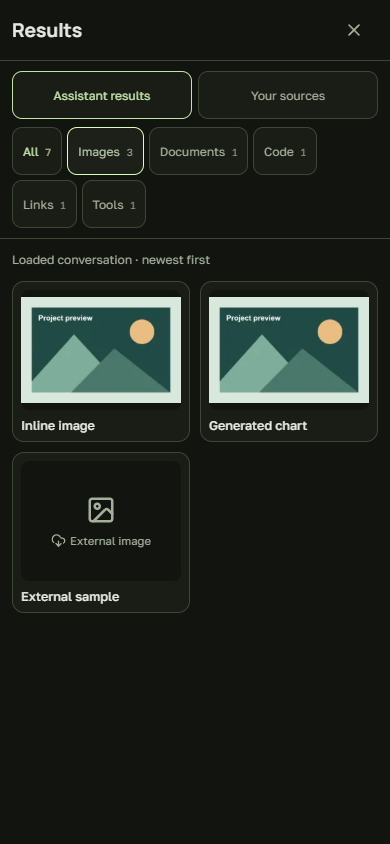
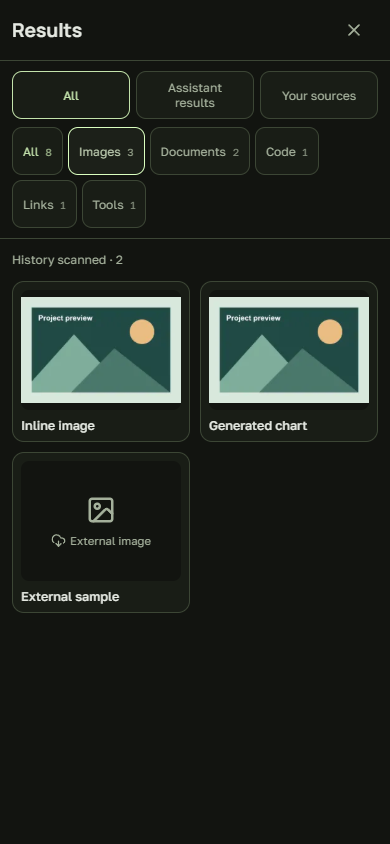
Preserve chat reading positions and index results across full history

diff --git a/src/App.tsx b/src/App.tsx
@@ -1,3 +1,4 @@
+import {positionKey,readPosition,savePosition,flushPositions,clearPositions,type ChatPosition} from './chat-position';
 import {UsageIndicator} from './UsageIndicator';
 import './composer-controls.css';
 import {shareMessages,shareSnapshot} from './chat-snapshot';
@@ -145,6 +146,7 @@ function WorkspaceApp({onDisconnect}: {onDisconnect():void}) {
   },[activityTarget,provider,busy,uploading,connection]);
   const [hasMore, setHasMore] = useStateForWorkspace<number | null>(null);
   const [loadingOlder,setLoadingOlder]=useStateForWorkspace(false);
+  const pendingPosition=useRefForWorkspace<ChatPosition|null>(null);
   const paging=useRefForWorkspace<symbol|null>(null);
   const scrollAnchor=useRefForWorkspace<{height:number;top:number;epoch:number;prepend:boolean;messageId?:string;offset?:number}|null>(null);
   useEffect(()=>saveSelectedWorkspace(provider),[provider]);
@@ -366,7 +368,11 @@ function WorkspaceApp({onDisconnect}: {onDisconnect():void}) {
     }
     const stop=startVisiblePoll(syncCompleted,3000);return () => {cancelled=true;stop();};
   },[connection,provider,job?.id,job?.status,demo,busy,loading,loadingOlder,fromStart,tab]);
-  useEffect(()=>{if(scroll.current)scroll.current.scrollTop=lastScrollTop.current;},[provider,tab]);
+  useLayoutEffect(()=>{if(tab==='chats'&&scroll.current&&!loading){scroll.current.scrollTop=lastScrollTop.current;setShowScrollActions(fromStart||scroll.current.scrollHeight-scroll.current.scrollTop-scroll.current.clientHeight>=80);}},[provider,tab,mobileChat]);
+  useLayoutEffect(()=>{const position=pendingPosition.current,el=scroll.current;if(!position||!el||loading||tab!=='chats')return;pendingPosition.current=null;const message=position.messageId?[...el.querySelectorAll<HTMLElement>('[data-message-id]')].find(node=>node.dataset.messageId===position.messageId):null;el.scrollTop=position.bottom?el.scrollHeight:message&&position.offset!==undefined?el.scrollTop+message.getBoundingClientRect().top-el.getBoundingClientRect().top-position.offset:position.top;lastScrollTop.current=el.scrollTop;nearBottom.current=position.bottom;setShowScrollActions(!position.bottom||fromStart);},[loading,history,provider,tab]);
+  function rememberPosition(){const el=scroll.current;if(!el||loading||!selected||!el.getClientRects().length)return;const top=el.getBoundingClientRect().top,message=[...el.querySelectorAll<HTMLElement>('[data-message-id]')].find(node=>node.getBoundingClientRect().bottom>top);savePosition(positionKey(cacheScope,provider,selected.sessionId),{top:el.scrollTop,window:historyWindow.current,fromStart,bottom:nearBottom.current,messageId:message?.dataset.messageId,offset:message?message.getBoundingClientRect().top-top:undefined});}
+  const persistPosition=useRef(()=>{});persistPosition.current=rememberPosition;
+  useEffect(()=>{const save=()=>{persistPosition.current();flushPositions();};window.addEventListener('pagehide',save);document.addEventListener('visibilitychange',save);return()=>{save();window.removeEventListener('pagehide',save);document.removeEventListener('visibilitychange',save);};},[]);
   useLayoutEffect(()=>{
     const anchor=scrollAnchor.current,el=scroll.current;
     if(!anchor||!el)return;
@@ -411,6 +417,7 @@ function WorkspaceApp({onDisconnect}: {onDisconnect():void}) {
   }
   async function jumpHistory(beginning: boolean) {
     if (loading || busy) return;
+    pendingPosition.current=null;
     const epoch = ++navigation.current;
     paging.current=null;setLoadingOlder(false);scrollAnchor.current=null;
     nearBottom.current = false;setLoading(true);
@@ -429,11 +436,12 @@ function WorkspaceApp({onDisconnect}: {onDisconnect():void}) {
   }
   async function openSession(s: Session, activeJob?: Pick<JobView,'id'|'sessionId'>) {
     if (busy || uploading) return;
-    rememberDraft();setReadingMode(false);paging.current=null;setLoadingOlder(false);scrollAnchor.current=null;
+    rememberPosition();rememberDraft();setReadingMode(false);paging.current=null;setLoadingOlder(false);scrollAnchor.current=null;
     const epoch = ++navigation.current;setSelected(s);projectChosen.current=true;setCwd(s.cwd || health!.roots[0]);setMobileChat(true);setTab('chats');
-    historyWindow.current = 100;setHistoryError('');setFromStart(false);setShowScrollActions(false);lastScrollTop.current = 0;
+    const savedPosition=readPosition(positionKey(cacheScope,provider,s.sessionId));pendingPosition.current=savedPosition;
+    historyWindow.current = savedPosition?.window||100;setHistoryError('');setFromStart(savedPosition?.fromStart||false);setShowScrollActions(savedPosition?!savedPosition.bottom:false);lastScrollTop.current = savedPosition?.top||0;
     const cached=cacheScope&&!demo?readChatCache<ChatMessage[]>(cacheScope,provider,'chat:'+s.sessionId):null;
-    setHistory(Array.isArray(cached)?cached:[]);setJob(null);restoreDraft(activeJob?.sessionId||s.sessionId);setError('');setTakeover(false);setHasMore(null);nearBottom.current = true;
+    setHistory(Array.isArray(cached)?cached:[]);setJob(null);restoreDraft(activeJob?.sessionId||s.sessionId);setError('');setTakeover(false);setHasMore(null);nearBottom.current = savedPosition?.bottom??true;
     if (demo) {setHistory(demoMessages);return;}
     setLoading(true);
     try {
@@ -445,14 +453,15 @@ function WorkspaceApp({onDisconnect}: {onDisconnect():void}) {
       setJob(full);setTakeover(Boolean(full));
       const resolved=full?.sessionId?{...s,sessionId:full.sessionId,cwd:full.cwd}:s;
       if(resolved.sessionId!==s.sessionId)setSelected(resolved);
-      if (!resolved.sessionId.startsWith('pending-')) await loadHistory(resolved, full, epoch, false, false);
+      if (!resolved.sessionId.startsWith('pending-')) await loadHistory(resolved, full, epoch, false, savedPosition?.fromStart||false);
     } catch (e) {if (epoch === navigation.current) setError((e as Error).message);} finally {if (epoch === navigation.current) setLoading(false);}
   }
   function newChat(project = cwd) {
     if (busy || uploading) return;
+    rememberPosition();
     rememberDraft();setReadingMode(false);paging.current=null;setLoadingOlder(false);scrollAnchor.current=null;navigation.current++;setSelected(null);setHistory([]);setJob(null);restoreDraft(`new:${project}`);setError('');setHasMore(null);
     historyWindow.current = 100;setHistoryError('');setFromStart(false);setShowScrollActions(false);lastScrollTop.current = 0;
-    projectChosen.current=true;setCwd(project);setMobileChat(true);setTab('chats');setTakeover(true);setLoading(false);
+    pendingPosition.current=null;projectChosen.current=true;setCwd(project);setMobileChat(true);setTab('chats');setTakeover(true);setLoading(false);
   }
   async function send(confirmed = takeover) {
     if (sending.current || loading || uploading || demo || !canRun || selected?.readOnly || !draft.trim() && !attachments.length) return;
@@ -499,7 +508,7 @@ function WorkspaceApp({onDisconnect}: {onDisconnect():void}) {
     } catch (e) {setError((e as Error).message);} finally {setUploading(false);if (fileInput.current) fileInput.current.value = '';}
   }
   function startDemo() {setDemo(true);setSessions(demoSessions);setHealth({ name: t("Рабочий компьютер"), roots: ['D:\\Projects\\my-app'], version: '0.10.0', protocol: 1 });setCwd('D:\\Projects\\my-app');setSelected(demoSessions[0]);setHistory(demoMessages);}
-  async function disconnect() {try {await saveConnection(null);clearChatCache();onDisconnect();}catch(e){setError((e as Error).message);}}
+  async function disconnect() {try {await saveConnection(null);clearChatCache();persistPosition.current=()=>{};clearPositions();onDisconnect();}catch(e){setError((e as Error).message);}}
   if (!health) return <Connect initial={saved} onConnect={connect} onDemo={startDemo} busy={busy} error={error} />;
   const visible = sessions.filter((s) => `${s.customTitle || ""} ${s.summary} ${s.cwd}`.toLowerCase().includes(search.toLowerCase()));
   const workspacePicker = (location:'sidebar'|'header'|'settings') => <label className={`workspace-picker workspace-picker-${location}`}>{location==='settings'&&<span>{t("Рабочее пространство")}</span>}<select aria-label={t("Рабочее пространство")} value={provider} disabled={demo} onChange={event=>setProvider(event.target.value as WorkspaceProvider)}><option value="claude">Claude</option><option value="codex">Codex</option><option value="copilot">GitHub Copilot</option></select></label>;
@@ -524,13 +533,13 @@ function WorkspaceApp({onDisconnect}: {onDisconnect():void}) {
     <main className="workspace">
       {reviewOpen && connection && reviewCwd && <Review key={reviewContext} connection={connection} cwd={reviewCwd} initialMode={availableReview?.mode} onClose={()=>setReviewOpen(false)}/>}
       {agentPanel && connection && parentChatId && <Subagents key={`${provider}-${parentChatId}`} connection={connection} provider={provider} parentId={parentChatId} initialAgent={agentPanel.initial} initialAgentId={agentPanel.initial?.id} onClose={()=>setAgentPanel(null)}/>}
-      {outputsOpen && connection && <ChatOutputs key={`${provider}:${parentChatId||cwd}`} connection={connection} cwd={cwd} messages={outputMessages} onClose={()=>setOutputsOpen(false)} hasMore={hasMore!==null&&historyWindow.current<5000} loadingMore={loadingOlder} onLoadMore={()=>void extendHistory()} />}
+      {outputsOpen && connection && <ChatOutputs provider={provider} sessionId={parentChatId||undefined} key={`${provider}:${parentChatId||cwd}`} connection={connection} cwd={cwd} messages={outputMessages} onClose={()=>setOutputsOpen(false)} hasMore={hasMore!==null&&historyWindow.current<5000} loadingMore={loadingOlder} onLoadMore={()=>void extendHistory()} />}
       <header className="chat-header" data-section={tab}>
         {(tab==='chats'||tab==='terminal')&&<button className="icon-button mobile-back" aria-label={t("К списку чатов")} onClick={() => setMobileChat(false)}><ArrowLeft size={21} /></button>}
         <div className="header-title">{(tab==='chats'||tab==='terminal') && <label className="project-picker"><Folder size={14}/><select aria-label={t("Папка проекта")} title={cwd} value={cwd} disabled={busy||uploading} onChange={event=>newChat(event.target.value)}>{!projectRoots.includes(cwd)&&<option value={cwd}>{basename(cwd)}</option>}{projectRoots.map(root=><option key={root} value={root}>{basename(root)}</option>)}</select></label>}<strong>{tab==='jobs'?t("Задачи"):tab==='settings'?t("Настройки"):tab==='files'?t("Проект"):tab==='terminal'?t("Терминал"):selected?.customTitle||selected?.summary||t("Новый разговор")}</strong></div>
         {tab==='jobs'&&<><span className="tasks-header-role">{t(jiraRoleLabel(jiraRole))}</span><TaskNotificationBell count={taskFeed.inbox.unread} disabled={!connection||demo} onClick={()=>setTaskInboxOpen(true)}/></>}
         {(tab==='chats'||tab==='terminal')&&workspacePicker('header')}
-        {tab==='chats' && <><span className="branch"><GitBranch size={13} />{selected?.gitBranch||'local'}</span>{availableReview&&<button className="secondary review-button" aria-label="Review" disabled={!connection||demo||selected?.readOnly} onClick={()=>setReviewOpen(true)}>Review</button>}{hasOutputs&&<button className="icon-button outputs-entry" disabled={!connection||demo||loading} aria-label={t("Результаты")} title={t("Результаты")} onClick={()=>setOutputsOpen(true)}><PanelsTopLeft size={20}/></button>}{(outputMessages.length>0||Boolean(job?.partial))&&<button className="icon-button reading-entry" disabled={loading||!history.length&&!job} aria-label={t("Режим чтения")} title={t("Режим чтения")} aria-pressed={readingMode} onClick={()=>toggleReadingMode(true)}><Eye size={20}/></button>}</>}
+        {tab==='chats' && <><span className="branch"><GitBranch size={13} />{selected?.gitBranch||'local'}</span>{availableReview&&<button className="secondary review-button" aria-label="Review" disabled={!connection||demo||selected?.readOnly} onClick={()=>setReviewOpen(true)}>Review</button>}{(hasOutputs||Boolean(selected))&&<button className="icon-button outputs-entry" disabled={!connection||demo||loading} aria-label={t("Результаты")} title={t("Результаты")} onClick={()=>setOutputsOpen(true)}><PanelsTopLeft size={20}/></button>}{(outputMessages.length>0||Boolean(job?.partial))&&<button className="icon-button reading-entry" disabled={loading||!history.length&&!job} aria-label={t("Режим чтения")} title={t("Режим чтения")} aria-pressed={readingMode} onClick={()=>toggleReadingMode(true)}><Eye size={20}/></button>}</>}
       </header>
       {demo && <div className="demo-banner">{t("Демо · пример интерфейса, без подключения к Claude")}<button onClick={() => void disconnect()}>{t("Подключить ПК →")}</button></div>}
       {historyError && tab==='chats' && <div className="network-banner" role="status">{t("История не обновилась: ")}{t(historyError)}</div>}
@@ -538,11 +547,12 @@ function WorkspaceApp({onDisconnect}: {onDisconnect():void}) {
       {!canRun && !demo && <div className="network-banner" role="status">{providerInfo?.error ? t(providerInfo.error) : providerInfo ? t("{0} недоступен. Установите приложение и войдите в аккаунт на ПК.",engineName) : t("Обновите сервер на ПК, чтобы включить рабочее пространство Codex.")}</div>}
       <Updates connection={connection} expanded={tab === 'settings'&&settingsPage === 'updates'} />
       {tab === 'jobs' ? <JiraJobs notificationTarget={taskTarget} onNotificationOpened={()=>setTaskTarget(null)} key={provider} provider={provider} codexAccess={codexAccess} connection={connection} roots={projectRoots} jobs={jobs} budget={budget} onSettings={() => {setSettingsPage('jira');setTab('settings');setMobileChat(true);}} onOpenLinked={link => {if(link.sessionId)void openSession({sessionId:link.sessionId,cwd:link.cwd,provider:link.provider,summary:t("Задача {0}",engineName),lastModified:Date.now()});}} onOpen={(j) => {void openSession({ sessionId: j.sessionId || `pending-${j.id}`, summary: j.jira ? `${j.jira.key}: ${j.jira.summary}` : t("Задача {0}",engineName), cwd: j.cwd, lastModified: j.startedAt }, j);}} /> : tab === 'terminal' ? provider !== 'claude' ? <div className="center-message">{t("Терминал доступен в рабочем пространстве Claude. С Codex можно работать в чате.")}</div> : connection && !demo && !selected?.readOnly ? <LiveTerminal connection={connection} cwd={cwd} sessionId={selected?.sessionId} /> : <div className="center-message">{t("Живой терминал доступен после подключения к ПК.")}</div> : tab === 'files' ? connection && !demo && !selected?.readOnly ? <ProjectDocs key={`${provider}:${cwd}`} provider={provider} connection={connection} root={cwd} roots={projectRoots} onSelectProject={root=>{newChat(root);setTab('files');setMobileChat(true);}} onProject={newChat} /> : <div className="center-message">{t("Файлы доступны после подключения к ПК.")}</div> : tab === 'settings' ? <SettingsPanel workspaceSelector={workspacePicker('settings')} page={settingsPage} onPage={setSettingsPage} provider={provider} connection={connection} computerName={health.name} networkError={networkError} roots={projectRoots} cwd={cwd} onProject={root=>{newChat(root);setTab('settings');setSettingsPage('workspace');}} appearance={appearanceSettings} codexAccess={codexAccess} onCodexAccess={setCodexAccess} budget={budget} onBudget={setBudget} onDisconnect={()=>void disconnect()}/> : <>
-        <div className="conversation" ref={scroll} style={{overflowAnchor:'none'}} onScroll={() => {const el = scroll.current!,previous=lastScrollTop.current;nearBottom.current = el.scrollHeight - el.scrollTop - el.clientHeight < 80;if (nearBottom.current && !fromStart) setShowScrollActions(false);else if (el.scrollTop < previous - 2) setShowScrollActions(true);lastScrollTop.current = el.scrollTop;acknowledgeVisibleActivity();if(fromStart?el.scrollTop>previous&&nearBottom.current:el.scrollTop<previous&&el.scrollTop<=40)void extendHistory();}}>
+        <div className="conversation" ref={scroll} style={{overflowAnchor:'none'}} onScroll={() => {const el = scroll.current!;if(!el.getClientRects().length||tab!=='chats')return;const previous=lastScrollTop.current;nearBottom.current = el.scrollHeight - el.scrollTop - el.clientHeight < 80;setShowScrollActions(fromStart||!nearBottom.current);lastScrollTop.current = el.scrollTop;rememberPosition();acknowledgeVisibleActivity();if(fromStart?el.scrollTop>previous&&nearBottom.current:el.scrollTop<previous&&el.scrollTop<=40)void extendHistory();}}>
           <div className="conversation-inner">{selected && !demo && <p className="muted history-meta" role="status">{selected.source === 'desktop' ? `${engineName} Desktop · ` : ''}{job ? t("Продолжение с телефона") : t("История обновляется каждые 3 секунды")}</p>}{selected?.readOnly && <p className="info-card">{t("Только просмотр. Чтобы продолжить чат и работать с файлами, запустите сервер с папкой этого проекта: ")}{cwd}</p>}<div className="conversation-date"><span />{demo ? t("ПРИМЕР РАЗГОВОРА") : t("РАБОЧЕЕ ПРОСТРАНСТВО")}<span /></div>
             {loading && <div className="center-message">{t("Загружаем историю с ПК…")}</div>}
             {!loading && !history.length && !job && !selected && <div className="welcome"><div className="welcome-symbol">✳</div><h1>{t("Что создадим сегодня?")}</h1><p>{t("Файлы, инструменты и контекст вашего ПК.")}<br />{t("Теперь под рукой.")}</p><div className="suggestions">{[t("Изучи структуру проекта"), t("Помоги найти и исправить ошибку"), t("Составь план новой функции")].map((t) => <button key={t} onClick={() => setDraft(t)}>{t}<ArrowUp size={15} /></button>)}</div></div>}
             {!loading && selected && !history.length && !job && <p className="muted">{t("В локальной истории пока нет сообщений. Проверьте, что этот чат открыт в {0} на ПК.",engineName)}</p>}
+            {selected&&!loading&&<p className="history-page-status muted" role="status" aria-live="polite">{loadingOlder?(locale().startsWith('ru')?'Загружаем сообщения…':'Loading messages…'):historyError?(locale().startsWith('ru')?'Не удалось обновить историю':'History could not be refreshed'):fromStart||hasMore===null?(locale().startsWith('ru')?'Начало чата':'Beginning of chat'):(locale().startsWith('ru')?'Выше есть ещё сообщения · прокрутите вверх':'More messages above · scroll up')}{historyError&&hasMore!==null&&<button className="text-button" onClick={()=>void extendHistory()}>{locale().startsWith('ru')?'Повторить загрузку':'Retry loading'}</button>}</p>}
             <MessageList key={`${provider}-history`} provider={provider} messages={history} toolResults={toolResults} runningMessages={runningMessages} agents={agentMap} onSubagent={connection&&parentChatId ? openSubagent : undefined}/>
             {hasMore !== null && historyWindow.current >= 5000 && <p className="muted" role="status">{t("Достигнут предел окна: 5000 сообщений")}</p>}
             {job&&job.errorCode!=='codex_thread_busy' && <MessageList key={`${provider}-${job.id}`} provider={provider} messages={job.messages} toolResults={toolResults} runningMessages={runningMessages} agents={agentMap} onSubagent={connection&&parentChatId ? openSubagent : undefined}/>}

diff --git a/src/ChatOutputs.tsx b/src/ChatOutputs.tsx
@@ -1,16 +1,17 @@
+import {useChatOutputIndex} from './useChatOutputIndex';
 import {useEffect,useMemo,useRef,useState} from 'react';
 import {ArrowLeft,ChevronRight,Code2,ExternalLink,FileText,Image,Link,RefreshCw,Wrench,X} from 'lucide-react';
 import {request,type Connection} from './api';
 import {useLanguage} from './i18n';
 import {useModal} from './navigation';
 import {Markdown,RichBlock,safeWebUrl,imageSource} from './RichBlocks';
-import {extractChatOutputs,OUTPUT_LIMIT,type ChatOutput,type OutputCategory,type OutputSource} from './chat-outputs';
+import {type ChatOutput,type OutputCategory,type OutputSource} from './chat-outputs';
 import type {ChatMessage} from '../server/types';
 import './chat-outputs.css';
 import {OutputImageCard,OutputImageViewer} from './OutputImage';
 import {thumbnailQueue} from './image-thumbnails';
 
-type Props={connection:Connection;cwd:string;messages:ChatMessage[];onClose:()=>void;onLoadMore?:()=>void;hasMore?:boolean;loadingMore?:boolean};
+type Props={provider?:string;sessionId?:string;connection:Connection;cwd:string;messages:ChatMessage[];onClose:()=>void;onLoadMore?:()=>void;hasMore?:boolean;loadingMore?:boolean};
 type Artifact={name:string;mimeType:string;data?:string;text?:string};
 const words={
   title:['Results','Результаты'],close:['Back to chat','Вернуться в чат'],back:['All results','Все результаты'],
@@ -30,31 +31,32 @@ const words={
 const icons={images:Image,documents:FileText,code:Code2,links:Link,tools:Wrench};
 const categories=['all','images','documents','code','links','tools'] as const;
 export function ChatOutputs(props:Props){return <OutputPanel key={`${props.connection.url}|${props.connection.token}|${props.cwd}`} {...props}/>;}
-function OutputPanel({connection,cwd,messages,onClose,onLoadMore,hasMore,loadingMore}:Props){
+function OutputPanel({connection,cwd,messages,onClose,onLoadMore,hasMore,loadingMore,provider='claude',sessionId}:Props){
   const language=useLanguage(),label=(key:keyof typeof words)=>words[key][language==='ru'?1:0];
-  const outputs=useMemo(()=>extractChatOutputs(messages),[messages]);
-  const [source,setSource]=useState<OutputSource>('results'),[filter,setFilter]=useState<'all'|OutputCategory>('all'),[selected,setSelected]=useState<ChatOutput|null>(null);
+  const index=useChatOutputIndex(connection,provider,sessionId,messages),outputs=index.outputs;
+  const [visibleCount,setVisibleCount]=useState(100);
+  const [source,setSource]=useState<OutputSource|'all'>('all'),[filter,setFilter]=useState<'all'|OutputCategory>('all'),[selected,setSelected]=useState<ChatOutput|null>(null);
   const [selectedImage,setSelectedImage]=useState<ChatOutput|null>(null),thumbnails=useMemo(()=>thumbnailQueue(),[connection,cwd]);
   const panel=useRef<HTMLElement|null>(null),scroll=useRef<HTMLDivElement|null>(null),backButton=useRef<HTMLButtonElement|null>(null),savedScroll=useRef(0),first=useRef(true);
   useModal(panel,true,()=>selected?setSelected(null):onClose());
   useEffect(()=>{if(scroll.current)scroll.current.scrollTop=selected?0:savedScroll.current;if(!first.current)backButton.current?.focus({preventScroll:true});first.current=false;},[selected]);
-  const scoped=outputs.filter(item=>item.source===source),visible=scoped.filter(item=>filter==='all'||item.category===filter);
+  const scoped=outputs.filter(item=>source==='all'||item.source===source),visible=scoped.filter(item=>filter==='all'||item.category===filter);
   const title=(item:ChatOutput)=>item.title==='Image'?label('image'):item.title==='Document'?label('document'):item.title==='Code'?label('code'):item.title==='Tool result'?label('toolResult'):item.title==='Tool error'?label('toolError'):item.title;
   const choose=(item:ChatOutput)=>{if(item.category==='images'){setSelectedImage(item);return;}savedScroll.current=scroll.current?.scrollTop||0;setSelected(item);};
-  const changeSource=(value:OutputSource)=>{setSource(value);setFilter('all');savedScroll.current=0;if(scroll.current)scroll.current.scrollTop=0;};
+  const changeSource=(value:OutputSource|'all')=>{setSource(value);setFilter('all');setVisibleCount(100);savedScroll.current=0;if(scroll.current)scroll.current.scrollTop=0;};
   return <aside ref={panel} className="chat-outputs-panel" role="dialog" aria-modal="true" aria-label={label('title')}>
     <header className="chat-outputs-header"><h2>{label('title')}</h2><button className="icon-button" aria-label={label('close')} onClick={onClose}><X size={20}/></button></header>
     {selected?<div className="chat-outputs-back"><button ref={backButton} onClick={()=>setSelected(null)}><ArrowLeft size={18}/>{label('back')}</button></div>:<div className="chat-outputs-filters">
-      <div className="chat-output-scope" role="group" aria-label={label('scope')}>{(['results','sources'] as const).map(value=><button key={value} aria-pressed={source===value} onClick={()=>changeSource(value)}>{label(value)}</button>)}</div>
+      <div className="chat-output-scope" role="group" aria-label={label('scope')}>{(['all','results','sources'] as const).map(value=><button key={value} aria-pressed={source===value} onClick={()=>changeSource(value)}>{label(value)}</button>)}</div>
       <div className="chat-output-categories" role="group" aria-label={label('categories')}>{categories.map(value=><button key={value} aria-pressed={filter===value} onClick={()=>{setFilter(value);if(scroll.current)scroll.current.scrollTop=0;}}>{label(value)} <span>{value==='all'?scoped.length:scoped.filter(item=>item.category===value).length}</span></button>)}</div>
     </div>}
-    <div ref={scroll} className="chat-outputs-scroll">
+    <div ref={scroll} className="chat-outputs-scroll" onScroll={event=>{const el=event.currentTarget;if(el.scrollHeight-el.scrollTop-el.clientHeight<400)setVisibleCount(value=>value+100);}}>
       {selected?<><h3 className="chat-output-title">{title(selected)}</h3><OutputPreview key={selected.id} output={selected} connection={connection} cwd={cwd} label={label}/></>:<>
-        <p className="chat-output-note">{label('loaded')}</p>
-        {outputs.length>=OUTPUT_LIMIT&&<p className="chat-output-note">{label('limit')}</p>}
-        {!visible.length&&<p className="chat-output-empty">{label('empty')}</p>}
-        <ul className={'chat-output-list'+(filter==='images'?' chat-output-gallery':'')}>{visible.map(item=>{const Icon=icons[item.category];return <li key={item.id} className={item.category==='images'?'chat-output-image-item':''}>{item.category==='images'?<OutputImageCard output={item} title={title(item)} connection={connection} cwd={cwd} queue={thumbnails} onOpen={()=>choose(item)}/>:<button onClick={()=>choose(item)} className="chat-output-row"><Icon size={20}/><span><strong>{title(item)}</strong><small>{item.path||item.href||label(item.category)}</small></span><ChevronRight size={18}/></button>}</li>;})}</ul>
-        {hasMore&&onLoadMore&&<button className="secondary chat-output-earlier" onClick={onLoadMore} disabled={loadingMore}>{loadingMore?label('loading'):label('earlier')}</button>}
+        <p className="chat-output-note" role="status">{sessionId?(index.error?(language==='ru'?'\u041f\u043e\u0438\u0441\u043a \u043f\u0440\u0435\u0440\u0432\u0430\u043d':'Search interrupted'):index.scanning?(language==='ru'?'Ищем файлы во всей истории':'Searching the full history'):(language==='ru'?'История проверена':'History scanned'))+' · '+index.count:label('loaded')}</p>
+        {index.error&&<p role="alert">{index.error}<button onClick={index.retry}>{language==='ru'?'Повторить':'Retry'}</button></p>}
+        {!visible.length&&<p className="chat-output-empty">{index.scanning?(language==='ru'?'Пока ничего не найдено. Поиск продолжается…':'Nothing found yet. Still searching…'):(language==='ru'?'Нет элементов этой категории.':'No items in this category.')}</p>}
+        <ul className={'chat-output-list'+(filter==='images'?' chat-output-gallery':'')}>{visible.slice(0,visibleCount).map(item=>{const Icon=icons[item.category];return <li key={item.id} className={item.category==='images'?'chat-output-image-item':''}>{item.category==='images'?<OutputImageCard output={item} title={title(item)} connection={connection} cwd={cwd} queue={thumbnails} onOpen={()=>choose(item)}/>:<button onClick={()=>choose(item)} className="chat-output-row"><Icon size={20}/><span><strong>{title(item)}</strong><small>{item.path||item.href||label(item.category)}</small></span><ChevronRight size={18}/></button>}</li>;})}</ul>
+        {!sessionId&&hasMore&&onLoadMore&&<button className="secondary chat-output-earlier" onClick={onLoadMore} disabled={loadingMore}>{loadingMore?label('loading'):label('earlier')}</button>}
       </>}
     </div>
     {selectedImage&&<OutputImageViewer output={selectedImage} title={title(selectedImage)} connection={connection} cwd={cwd} onClose={()=>setSelectedImage(null)}/>}

diff --git a/tests/chat-recovery.spec.ts b/tests/chat-recovery.spec.ts
@@ -92,10 +92,11 @@ test('scrolling to history edges loads automatically once and preserves the visi
   await scroller.evaluate(el=>{el.scrollTo({top:0,behavior:'instant'});el.dispatchEvent(new Event('scroll'));el.dispatchEvent(new Event('scroll'));});
   await expect.poll(()=>windows.filter(window=>window===200).length).toBe(1);
   const oldAnchor=page.locator('.message').filter({has:page.getByText('History message 101',{exact:true})});
+  await expect(page.getByText('Loading messages…',{exact:true})).toBeVisible();
   const oldTop=await oldAnchor.evaluate(el=>el.getBoundingClientRect().top);expansion.resolve();
   await expect(page.locator('.message')).toHaveCount(201);
   await expect.poll(()=>oldAnchor.evaluate(el=>el.getBoundingClientRect().top)).toBeCloseTo(oldTop,0);
-  expect(windows.filter(window=>window===200)).toHaveLength(1);
+  expect(windows.filter(window=>window===200)).toHaveLength(1);await expect(page.getByText('Beginning of chat',{exact:true})).toHaveCount(1);
   await page.getByRole('button',{name:'Go to beginning'}).click();await expect(page.locator('.message')).toHaveCount(100);
   await expect.poll(()=>scroller.evaluate(el=>el.scrollTop)).toBe(0);
   await scroller.evaluate(el=>{el.scrollTo({top:el.scrollHeight,behavior:'instant'});el.dispatchEvent(new Event('scroll'));});
@@ -142,4 +143,24 @@ test('cached list and transcript appear before delayed refresh after reload',asy
  await expect(page.getByText('History message 1',{exact:true})).toHaveCount(1);
  waiting.resolve();await expect(page.getByText('History message 2',{exact:true})).toHaveCount(1);
  await expect(page.getByText('History message 1',{exact:true})).toHaveCount(0);
+});
+
+test('chat position and jump controls survive downward scrolling, tab changes and reload',async({page})=>{
+ await page.setViewportSize({width:390,height:844});await host(page);
+ await page.route('**/api/sessions/saved-chat/messages?*',route=>route.fulfill({json:{messages:Array.from({length:100},(_,i)=>message(i+1)),previous:null,next:null}}));
+ await connect(page,'claude');const scroller=page.locator('.conversation');
+ await expect.poll(()=>scroller.evaluate(el=>el.scrollTop)).toBeGreaterThan(1000);
+ await scroller.evaluate(el=>{el.scrollTop=1800;el.dispatchEvent(new Event('scroll'));});
+ await scroller.evaluate(el=>{el.scrollTop=1900;el.dispatchEvent(new Event('scroll'));});
+ await expect(page.getByRole('button',{name:'Go to beginning'})).toBeVisible();
+ const before=await scroller.evaluate(el=>el.scrollTop);
+ await page.locator('.mobile-nav').getByRole('button',{name:'Settings'}).click();
+ await page.locator('.mobile-nav').getByRole('button',{name:'Chats'}).click();
+ await expect.poll(()=>scroller.evaluate(el=>el.scrollTop)).toBeCloseTo(before,0);
+ await page.getByRole('button',{name:'Back to chats',exact:true}).click();
+ await page.getByRole('button',{name:'Saved claude chat'}).click();
+ await expect.poll(()=>scroller.evaluate(el=>el.scrollTop)).toBeCloseTo(before,0);
+ await page.reload();await page.getByRole('button',{name:'Saved claude chat'}).click();
+ await expect.poll(()=>scroller.evaluate(el=>el.scrollTop)).toBeCloseTo(before,0);
+ await expect(page.getByRole('button',{name:'Go to beginning'})).toBeVisible();
 });

diff --git a/tests/chat-outputs.spec.ts b/tests/chat-outputs.spec.ts
@@ -47,7 +47,8 @@ const panel=(page:Page)=>page.locator('.chat-outputs-panel');
 
 test('results categories isolate outputs from sources and Back preserves the parent draft',async({page})=>{
   await page.setViewportSize({width:390,height:844});await setup(page);await page.getByLabel('Message Codex').fill('Parent draft remains here');await page.getByRole('button',{name:'Results',exact:true}).click();
-  await expect(panel(page)).toBeVisible();await expect(panel(page).getByText('Your brief',{exact:true})).toHaveCount(0);
+  await expect(panel(page)).toBeVisible();await expect(panel(page).getByText('Your brief',{exact:true})).toHaveCount(1);
+  await panel(page).getByRole('button',{name:'Assistant results',exact:true}).click();await expect(panel(page).getByText('Your brief',{exact:true})).toHaveCount(0);
   await panel(page).getByRole('button',{name:/^Code \d/}).click();await expect(panel(page).locator('.chat-output-row')).toHaveCount(1);
   await panel(page).locator('.chat-output-row').click();await expect(panel(page).getByText('const result = 42;',{exact:true})).toBeVisible();
   await page.keyboard.press('Escape');await panel(page).getByRole('button',{name:'Your sources',exact:true}).click();await expect(panel(page).locator('.chat-output-row')).toHaveCount(1);
@@ -128,3 +129,25 @@ for(const profile of [{width:320,height:640,language:'en',scale:130},{width:320,
     await page.screenshot({path:`artifacts/screenshots/results-${profile.width}-${profile.language}.png`,fullPage:true});
   });
 }
+
+test('results scan every history page independently of the visible chat',async({page})=>{
+ await page.setViewportSize({width:390,height:844});await setup(page);
+ const before=await page.locator('.conversation').evaluate(el=>el.scrollTop);let release!:()=>void;
+ const wait=new Promise<void>(resolve=>{release=resolve;});const offsets:number[]=[];
+ await page.route('**/api/sessions/output-chat/messages?*',async route=>{
+  const offset=new URL(route.request().url()).searchParams.get('offset');
+  if(offset===null)return route.fulfill({json:{messages,previous:100,next:null}});
+  offsets.push(Number(offset));if(offset==='100')await wait;
+  return route.fulfill({json:{messages:offset==='0'?[{id:'old',role:'assistant',blocks:[{type:'text',text:'[Older report](old/report.md)'}]}]:[{id:'old-source',role:'user',blocks:[{type:'document',title:'Earlier source',source:{type:'text',text:'Archived input'}}]}],next:offset==='0'?100:null}});
+ });
+ await page.getByRole('button',{name:'Results',exact:true}).click();
+ await expect(panel(page).getByText(/Searching the full history/)).toBeVisible();
+ await expect(panel(page).getByRole('button',{name:/Older report/})).toBeVisible();release();
+ await expect(panel(page).getByText(/History scanned/)).toBeVisible();
+ await expect(panel(page).getByRole('button',{name:/Earlier source/})).toBeVisible();
+ expect(offsets).toContain(0);expect(offsets).toContain(100);
+ await expect(panel(page).getByRole('button',{name:'Load more messages'})).toHaveCount(0);
+ await page.keyboard.press('Escape');
+ expect(await page.locator('.conversation').evaluate(el=>el.scrollTop)).toBe(before);
+ await expect(page.locator('.conversation').getByText('Older report')).toHaveCount(0);
+});

diff --git a/src/useChatOutputIndex.ts b/src/useChatOutputIndex.ts
@@ -1,0 +1,24 @@
+import {useEffect,useMemo,useState} from 'react';
+import {request,type Connection} from './api';
+import {extractChatOutputs,type ChatOutput} from './chat-outputs';
+import type {ChatMessage} from '../server/types';
+export function mergeOutputs(...groups:ChatOutput[][]){const seen=new Set<string>();return groups.flat().filter(item=>{const key=[item.source,item.category,item.path||item.href||item.id].join('|');if(seen.has(key))return false;seen.add(key);return true;});}
+/** Scan independently of the chat viewport; retain only recognized output entries. */
+export function useChatOutputIndex(connection:Connection,provider:string,sessionId:string|undefined,messages:ChatMessage[]){
+ const [items,setItems]=useState<ChatOutput[]>([]),[scanning,setScanning]=useState(false),[count,setCount]=useState(0),[error,setError]=useState(''),[retry,setRetry]=useState(0);
+ useEffect(()=>{
+  if(!sessionId||sessionId.startsWith('pending-'))return;let active=true,timer:ReturnType<typeof setTimeout>|undefined;let offset=0;
+  setItems([]);setCount(0);setError('');setScanning(true);
+  async function page(){try{
+   const value=await request<{messages:ChatMessage[];next:number|null}>(connection,`/sessions/${encodeURIComponent(sessionId!)}/messages?provider=${provider}&offset=${offset}`);
+   if(!active)return;
+   const found=extractChatOutputs(value.messages,Infinity);setItems(old=>mergeOutputs(found,old));setCount(old=>old+value.messages.length);
+   if(value.next===null||value.next===undefined){setScanning(false);return;}
+   if(!Number.isSafeInteger(value.next)||value.next<=offset)throw Error('History pagination did not advance');
+   offset=value.next;timer=setTimeout(()=>void page(),200);
+  }catch(error){if(active){setError((error as Error).message);setScanning(false);}}}
+  void page();return()=>{active=false;clearTimeout(timer);};
+ },[connection.url,connection.token,provider,sessionId,retry]);
+ const recent=useMemo(()=>extractChatOutputs(messages,Infinity),[messages]);
+ return{outputs:useMemo(()=>mergeOutputs(recent,items),[recent,items]),scanning,count,error,retry:()=>setRetry(value=>value+1)};
+}

diff --git a/src/chat-position.ts b/src/chat-position.ts
@@ -1,0 +1,9 @@
+export type ChatPosition={top:number;window:number;fromStart:boolean;bottom:boolean;messageId?:string;offset?:number};
+const prefix='pocket-code-position-v1:';
+const memory=new Map<string,ChatPosition>();let timer:ReturnType<typeof setTimeout>|undefined;
+const pending=new Map<string,ChatPosition>();
+export const positionKey=(scope:string,provider:string,id:string)=>scope?prefix+scope+':'+provider+':'+id:'';
+export function readPosition(key:string):ChatPosition|null{if(!key)return null;try{const p=memory.get(key)||JSON.parse(localStorage.getItem(key)||'null');return p&&Number.isFinite(p.top)&&p.top>=0&&Number.isInteger(p.window)&&p.window>=100&&p.window<=5000?p:null;}catch{return null;}}
+export function flushPositions(){clearTimeout(timer);for(const [key,value]of pending)try{localStorage.setItem(key,JSON.stringify(value));}catch{}pending.clear();}
+export function savePosition(key:string,value:ChatPosition){if(!key)return;memory.set(key,value);pending.set(key,value);if(memory.size>100)memory.delete(memory.keys().next().value!);clearTimeout(timer);timer=setTimeout(flushPositions,250);}
+export function clearPositions(){clearTimeout(timer);memory.clear();pending.clear();try{for(const key of Object.keys(localStorage))if(key.startsWith(prefix))localStorage.removeItem(key);}catch{}}

diff --git a/src/chat-outputs.ts b/src/chat-outputs.ts
@@ -39,7 +39,7 @@ function name(reference:{path?:string;href?:string}){
 
 /** Read-only index of the loaded transcript. It never fetches URLs or searches the PC filesystem. */
 export function extractChatOutputs(messages:ChatMessage[],limit=OUTPUT_LIMIT):ChatOutput[]{
-  limit=Math.max(1,Math.min(OUTPUT_LIMIT,limit));
+  limit=Math.max(1,limit);
   const output:ChatOutput[]=[],seen=new Set<string>();let visited=0;
   const tools=new Map<string,Block>();
   for(const message of messages)for(const block of message.blocks)if(block.type==='tool_use'&&block.id)tools.set(block.id,block);

diff --git a/docs/USER_GUIDE.md b/docs/USER_GUIDE.md
@@ -25,9 +25,9 @@ Keep the PC awake and the host running. Closing the QR browser tab does not stop
 
 <table><tr><td><img src="images/results-images.png" width="280" alt="Results gallery with image thumbnails"></td><td><img src="images/image-viewer.png" width="280" alt="Full-screen image with zoom and Fit to screen controls"></td></tr></table>
 
-Open **Results → Images** to browse thumbnails from the loaded messages. Switch between **Assistant results** and **Your sources** to see generated images or your attachments. Tap a thumbnail to open it, pinch or use **+ / −** to zoom, and drag to inspect details. **Fit to screen** resets the view. Close or press Back to return to the same gallery position.
+Open **Results → Images** to browse thumbnails while the panel gradually scans the complete available chat history. All materials appear by default. Switch between **Assistant results** and **Your sources** to see generated images or your attachments. Tap a thumbnail to open it, pinch or use **+ / −** to zoom, and drag to inspect details. **Fit to screen** resets the view. Close or press Back to return to the same gallery position.
 
-External images have a **Load external image** button. Local images use the connected computer; a missing file can no longer be previewed. Load older messages to include earlier images.
+External images have a **Load external image** button. Local images use the connected computer; a missing file can no longer be previewed. Earlier files appear automatically as the history scan progresses. Closing the panel stops scanning; reopening starts a fresh scan.
 
 <a id="diff"></a>
 ## Review code changes
@@ -90,7 +90,7 @@ Choose Claude or Codex and a project, then open an existing chat or create one. 
 
 Attach images and files with the attachment button. Images have thumbnails; use the cross to remove an attachment before sending. Expand compact tool activity rows to see details. Chat results can be filtered by content type, and subagents can be opened when the provider supplies their context.
 
-Scroll upward to load older messages automatically. The reading-mode eye hides extra controls. Switching main tabs retains the selected chat. Recent history is cached and refreshed after connecting; this is not a full offline archive. Unsaved drafts should not be treated as durable storage.
+Scroll upward to load older messages automatically. An indicator distinguishes more history, loading and the beginning of the chat. Reading position is saved separately per chat, including across app restarts. The reading-mode eye hides extra controls. Switching main tabs retains the selected chat. Recent history is cached and refreshed after connecting; this is not a full offline archive. Unsaved drafts should not be treated as durable storage.
 
 Open the right-edge activity drawer for running chats, errors, and questions needing a response. Reading a finished activity dismisses it from the queue; pending questions still require an answer.
 

diff --git a/docs/REFERENCE.md b/docs/REFERENCE.md
@@ -57,7 +57,7 @@ The live terminal currently supports Claude. Codex operates through the structur
 
 Markdown retains headings, lists, tables, links and code blocks. Open documents refresh every 15 seconds while visible; Refresh also rediscovers files. Discovery stays within the selected allowed folder, skips symlinks and dependency trees, and is bounded to 150 documents. Markdown previews are limited to 1 MB. An unavailable refresh retains the last loaded copy with a visible error.
 
-In a chat, **Results** opens a separate panel for Images, Documents, Code, Links and Tools. Assistant results and your source attachments have separate views; the full conversation remains intact. Images have visible-area thumbnails and a full-screen viewer with pinch/pan, zoom buttons and Fit to screen. Local thumbnails use authenticated project-scoped reads with at most two requests/decodes at a time; the existing artifact endpoint transfers the original image before client-side downsampling. Local PDF/text previews load when selected. External resources require explicit opening. The panel indexes the loaded history; load more messages there to include older content. A current PC file can differ from its saved chat snapshot. Office documents and provider-specific interactive artifacts do not have native previews here.
+In a chat, **Results** opens a separate panel for Images, Documents, Code, Links and Tools. Assistant results and your source attachments have separate views; the full conversation remains intact. Images have visible-area thumbnails and a full-screen viewer with pinch/pan, zoom buttons and Fit to screen. Local thumbnails use authenticated project-scoped reads with at most two requests/decodes at a time; the existing artifact endpoint transfers the original image before client-side downsampling. Local PDF/text previews load when selected. External resources require explicit opening. The panel gradually indexes every available history page independently of the chat viewport. It starts with all results and sources, shows scan progress and retains partial results on failure with a retry action. Closing the panel cancels further reads. A current PC file can differ from its saved chat snapshot. Office documents and provider-specific interactive artifacts do not have native previews here.
 
 ## Jira
 

diff --git a/CHANGELOG.md b/CHANGELOG.md
@@ -1,5 +1,12 @@
 # Changelog
 
+## 2026-10-01 - Complete chat results and durable reading positions (0.20.1)
+- Changed: Results scans every available history page gradually, independently of the chat's 5,000-message viewport. All results and source attachments are initially visible; categories, progressive rendering, scan progress and retry remain available. File contents still load on demand.
+- Changed: Chat positions are stored per host, provider and session, with message anchors and history-window restoration across navigation and reload. Jump controls depend on distance from the latest message instead of scroll direction. The history edge states whether older messages exist, are loading, or the beginning has been reached.
+- Files: src/useChatOutputIndex.ts, chat-position.ts, chat-outputs.ts, ChatOutputs.tsx, App.tsx; chat recovery/output tests and user guides.
+- Validation: 24 Playwright output, recovery and workspace scenarios passed, including complete paginated indexing, scroll anchors, navigation and reload; 10 output parser unit tests passed. TypeScript/Vite and Android APK build passed.
+- Follow-up: Only files represented in provider history can be discovered. Deleted/inaccessible files cannot be previewed. Closing Results cancels further indexing; reopening rescans. Physical Android testing remains unavailable.
+
 ## 2026-10-01 - GitHub Copilot workspace and automatic sign-in detection (0.20.0)
 - Changed: Added GitHub Copilot using the official SDK, with separate project/chat preferences, history, streaming replies, attachments, follow-ups, stop, permission questions and Jira execution queues. Shared Jira authorization remains separate from the selected task AI.
 - Authentication: Existing PC credentials are discovered by the SDK, including GitHub CLI. An explicit settings action launches the bundled official CLI browser login on the PC; it times out after five minutes and is terminated with the host. Pocket Code does not copy GitHub tokens to Android.
